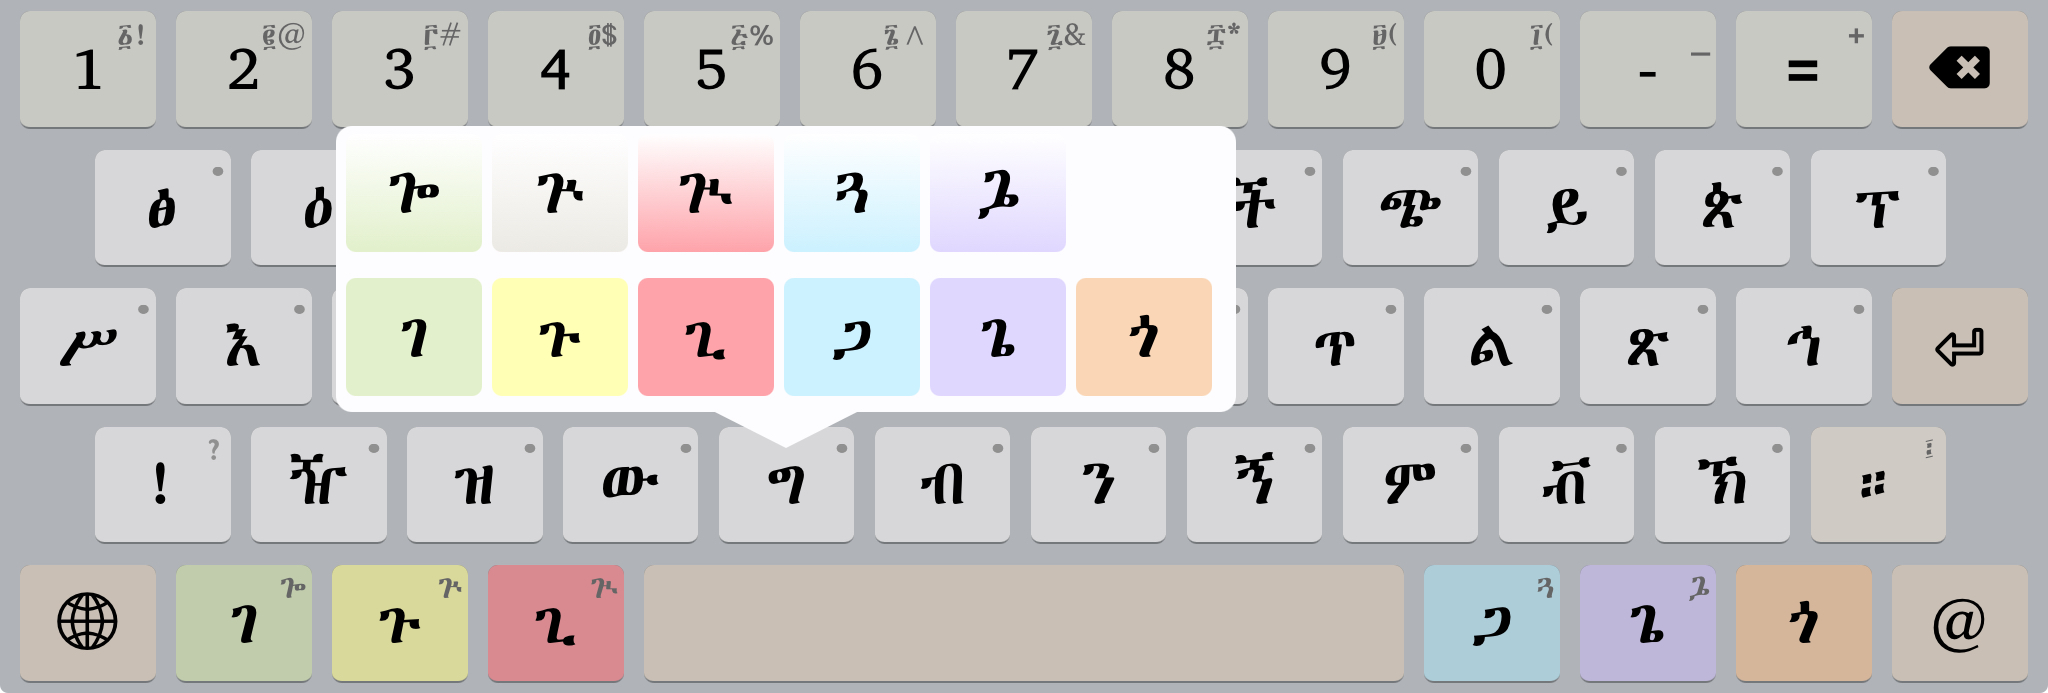
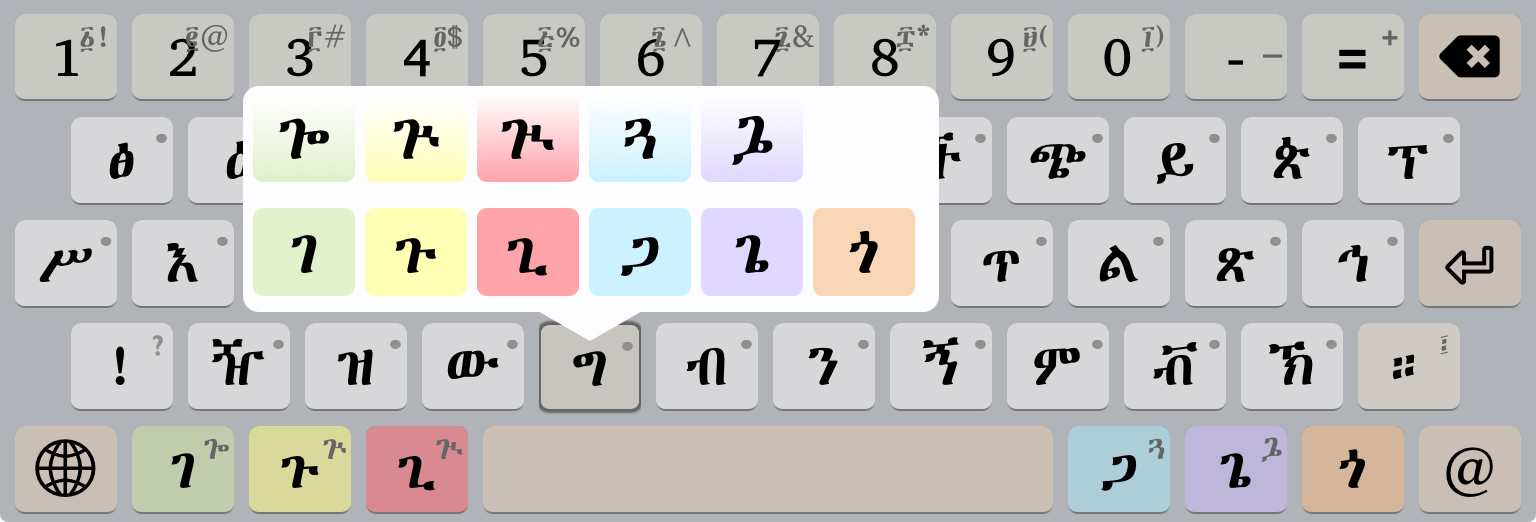
CSS fixes for keyboard examples, tablet screenshots updated.

diff --git a/release/gff/gff_amharic/source/help/html.css b/release/gff/gff_amharic/source/help/html.css
@@ -1,7 +1,5 @@
 .highlightExample {font-family: GeezWeb !important; font-weight: bold; font-size: 1.4em; color: #0000ff}
 .highlightKeys img {vertical-align:baseline !important}
-.input {font-weight: bold; font-size: 1.2em; color: #a64826}
-.output {font-weight: bold; font-size: 1.2em; color: #0000ff}
 .typing p, ul {margin-top: 0px; margin-bottom: 2px}
 
 code {
@@ -37,6 +35,7 @@ kbd {
 }
 .key_example
 {
+  text-indent: 0px;
   background-color: #ebebeb;
 }
 .geez {

diff --git a/release/gff/gff_amharic/source/welcome/welcome.htm b/release/gff/gff_amharic/source/welcome/welcome.htm
@@ -139,6 +139,7 @@ kbd {
 }
 .key_example
 {
+  text-indent: 0px;
   background-color: #ebebeb;
 }
 .geez {
